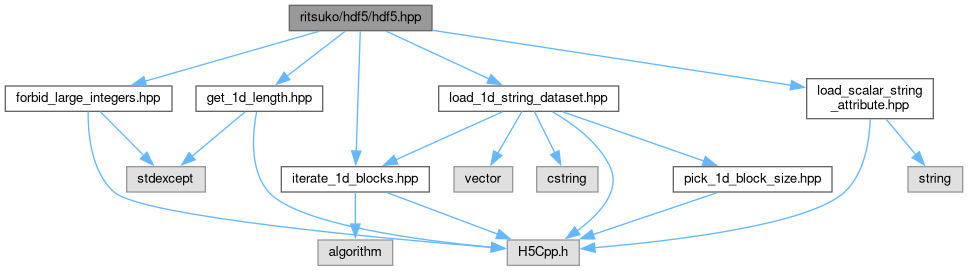
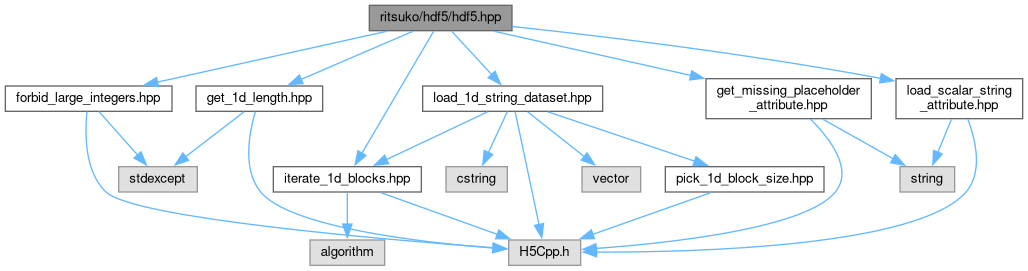
Deploying to gh-pages from @ ArtifactDB/ritsuko@1314973b05574e902abb3741881051f16d68b198 🚀

diff --git a/docs/get__missing__placeholder__attribute_8hpp_source.html b/docs/get__missing__placeholder__attribute_8hpp_source.html
@@ -1,0 +1,124 @@
+<!DOCTYPE html PUBLIC "-//W3C//DTD XHTML 1.0 Transitional//EN" "https://www.w3.org/TR/xhtml1/DTD/xhtml1-transitional.dtd">
+<html xmlns="http://www.w3.org/1999/xhtml" lang="en-US">
+<head>
+<meta http-equiv="Content-Type" content="text/xhtml;charset=UTF-8"/>
+<meta http-equiv="X-UA-Compatible" content="IE=11"/>
+<meta name="generator" content="Doxygen 1.9.5"/>
+<meta name="viewport" content="width=device-width, initial-scale=1"/>
+<title>ritsuko: ritsuko/hdf5/get_missing_placeholder_attribute.hpp Source File</title>
+<link href="tabs.css" rel="stylesheet" type="text/css"/>
+<script type="text/javascript" src="jquery.js"></script>
+<script type="text/javascript" src="dynsections.js"></script>
+<link href="search/search.css" rel="stylesheet" type="text/css"/>
+<script type="text/javascript" src="search/searchdata.js"></script>
+<script type="text/javascript" src="search/search.js"></script>
+<link href="doxygen.css" rel="stylesheet" type="text/css" />
+<link href="doxygen-awesome.css" rel="stylesheet" type="text/css"/>
+</head>
+<body>
+<div id="top"><!-- do not remove this div, it is closed by doxygen! -->
+<div id="titlearea">
+<table cellspacing="0" cellpadding="0">
+ <tbody>
+ <tr id="projectrow">
+  <td id="projectalign">
+   <div id="projectname">ritsuko
+   </div>
+   <div id="projectbrief">Helper utilities for ArtifactDB C++ code</div>
+  </td>
+ </tr>
+ </tbody>
+</table>
+</div>
+<!-- end header part -->
+<!-- Generated by Doxygen 1.9.5 -->
+<script type="text/javascript">
+/* @license magnet:?xt=urn:btih:d3d9a9a6595521f9666a5e94cc830dab83b65699&amp;dn=expat.txt MIT */
+var searchBox = new SearchBox("searchBox", "search/",'.html');
+/* @license-end */
+</script>
+<script type="text/javascript" src="menudata.js"></script>
+<script type="text/javascript" src="menu.js"></script>
+<script type="text/javascript">
+/* @license magnet:?xt=urn:btih:d3d9a9a6595521f9666a5e94cc830dab83b65699&amp;dn=expat.txt MIT */
+$(function() {
+  initMenu('',true,false,'search.php','Search');
+  $(document).ready(function() { init_search(); });
+});
+/* @license-end */
+</script>
+<div id="main-nav"></div>
+<!-- window showing the filter options -->
+<div id="MSearchSelectWindow"
+     onmouseover="return searchBox.OnSearchSelectShow()"
+     onmouseout="return searchBox.OnSearchSelectHide()"
+     onkeydown="return searchBox.OnSearchSelectKey(event)">
+</div>
+
+<!-- iframe showing the search results (closed by default) -->
+<div id="MSearchResultsWindow">
+<div id="MSearchResults">
+<div class="SRPage">
+<div id="SRIndex">
+<div id="SRResults"></div>
+<div class="SRStatus" id="Loading">Loading...</div>
+<div class="SRStatus" id="Searching">Searching...</div>
+<div class="SRStatus" id="NoMatches">No Matches</div>
+</div>
+</div>
+</div>
+</div>
+
+<div id="nav-path" class="navpath">
+  <ul>
+<li class="navelem"><a class="el" href="dir_f15da645971b6d779507fac846aa3ff3.html">ritsuko</a></li><li class="navelem"><a class="el" href="dir_29ed3d7dd90c3bc55abde691efb7e794.html">hdf5</a></li>  </ul>
+</div>
+</div><!-- top -->
+<div class="header">
+  <div class="headertitle"><div class="title">get_missing_placeholder_attribute.hpp</div></div>
+</div><!--header-->
+<div class="contents">
+<a href="get__missing__placeholder__attribute_8hpp.html">Go to the documentation of this file.</a><div class="fragment"><div class="line"><a id="l00001" name="l00001"></a><span class="lineno">    1</span><span class="preprocessor">#ifndef RITSUKO_HDF5_GET_MISSING_PLACEHOLDER_ATTRIBUTE_HPP</span></div>
+<div class="line"><a id="l00002" name="l00002"></a><span class="lineno">    2</span><span class="preprocessor">#define RITSUKO_HDF5_GET_MISSING_PLACEHOLDER_ATTRIBUTE_HPP</span></div>
+<div class="line"><a id="l00003" name="l00003"></a><span class="lineno">    3</span> </div>
+<div class="line"><a id="l00004" name="l00004"></a><span class="lineno">    4</span><span class="preprocessor">#include &quot;H5Cpp.h&quot;</span></div>
+<div class="line"><a id="l00005" name="l00005"></a><span class="lineno">    5</span><span class="preprocessor">#include &lt;string&gt;</span></div>
+<div class="line"><a id="l00006" name="l00006"></a><span class="lineno">    6</span> </div>
+<div class="line"><a id="l00012" name="l00012"></a><span class="lineno">   12</span><span class="keyword">namespace </span><a class="code hl_namespace" href="namespaceritsuko.html">ritsuko</a> {</div>
+<div class="line"><a id="l00013" name="l00013"></a><span class="lineno">   13</span> </div>
+<div class="line"><a id="l00014" name="l00014"></a><span class="lineno">   14</span><span class="keyword">namespace </span>hdf5 {</div>
+<div class="line"><a id="l00015" name="l00015"></a><span class="lineno">   15</span> </div>
+<div class="line"><a id="l00027" name="l00027"></a><span class="lineno">   27</span><span class="keyword">template</span>&lt;<span class="keywordtype">bool</span> type_<span class="keyword">class</span>_only_ = false&gt;</div>
+<div class="line"><a id="l00028" name="l00028"></a><span class="lineno"><a class="line" href="namespaceritsuko_1_1hdf5.html#a0cb6491677dc79e02685e36835802476">   28</a></span>H5::Attribute <a class="code hl_function" href="namespaceritsuko_1_1hdf5.html#a0cb6491677dc79e02685e36835802476">get_missing_placeholder_attribute</a>(<span class="keyword">const</span> H5::DataSet&amp; handle, <span class="keyword">const</span> <span class="keywordtype">char</span>* attr_name, <span class="keyword">const</span> <span class="keywordtype">char</span>* data_name) {</div>
+<div class="line"><a id="l00029" name="l00029"></a><span class="lineno">   29</span>    <span class="keyword">auto</span> attr = handle.openAttribute(attr_name);</div>
+<div class="line"><a id="l00030" name="l00030"></a><span class="lineno">   30</span>    <span class="keywordflow">if</span> (attr.getSpace().getSimpleExtentNdims() != 0) {</div>
+<div class="line"><a id="l00031" name="l00031"></a><span class="lineno">   31</span>        <span class="keywordflow">throw</span> std::runtime_error(<span class="stringliteral">&quot;expected &#39;&quot;</span> + std::string(attr_name) + <span class="stringliteral">&quot;&#39; attribute on dataset &#39;&quot;</span> + std::string(data_name) + <span class="stringliteral">&quot;&#39; to be a scalar&quot;</span>);</div>
+<div class="line"><a id="l00032" name="l00032"></a><span class="lineno">   32</span>    }</div>
+<div class="line"><a id="l00033" name="l00033"></a><span class="lineno">   33</span> </div>
+<div class="line"><a id="l00034" name="l00034"></a><span class="lineno">   34</span>    <span class="keywordflow">if</span> <span class="keyword">constexpr</span>(type_class_only_) {</div>
+<div class="line"><a id="l00035" name="l00035"></a><span class="lineno">   35</span>        <span class="keywordflow">if</span> (attr.getTypeClass() != handle.getTypeClass()) {</div>
+<div class="line"><a id="l00036" name="l00036"></a><span class="lineno">   36</span>            <span class="keywordflow">throw</span> std::runtime_error(<span class="stringliteral">&quot;expected &#39;&quot;</span> + std::string(attr_name) + <span class="stringliteral">&quot;&#39; attribute to have the same type class as its dataset &#39;&quot;</span> + std::string(data_name) + <span class="stringliteral">&quot;&#39;&quot;</span>);</div>
+<div class="line"><a id="l00037" name="l00037"></a><span class="lineno">   37</span>        }</div>
+<div class="line"><a id="l00038" name="l00038"></a><span class="lineno">   38</span>    } <span class="keywordflow">else</span> {</div>
+<div class="line"><a id="l00039" name="l00039"></a><span class="lineno">   39</span>        <span class="keywordflow">if</span> (attr.getDataType() != handle.getDataType()) {</div>
+<div class="line"><a id="l00040" name="l00040"></a><span class="lineno">   40</span>            <span class="keywordflow">throw</span> std::runtime_error(<span class="stringliteral">&quot;expected &#39;&quot;</span> + std::string(attr_name) + <span class="stringliteral">&quot;&#39; attribute to have the same type as its dataset &#39;&quot;</span> + std::string(data_name) + <span class="stringliteral">&quot;&#39;&quot;</span>);</div>
+<div class="line"><a id="l00041" name="l00041"></a><span class="lineno">   41</span>        }</div>
+<div class="line"><a id="l00042" name="l00042"></a><span class="lineno">   42</span>    }</div>
+<div class="line"><a id="l00043" name="l00043"></a><span class="lineno">   43</span> </div>
+<div class="line"><a id="l00044" name="l00044"></a><span class="lineno">   44</span>    <span class="keywordflow">return</span> attr;</div>
+<div class="line"><a id="l00045" name="l00045"></a><span class="lineno">   45</span>}</div>
+<div class="line"><a id="l00046" name="l00046"></a><span class="lineno">   46</span> </div>
+<div class="line"><a id="l00047" name="l00047"></a><span class="lineno">   47</span>}</div>
+<div class="line"><a id="l00048" name="l00048"></a><span class="lineno">   48</span> </div>
+<div class="line"><a id="l00049" name="l00049"></a><span class="lineno">   49</span>}</div>
+<div class="line"><a id="l00050" name="l00050"></a><span class="lineno">   50</span> </div>
+<div class="line"><a id="l00051" name="l00051"></a><span class="lineno">   51</span><span class="preprocessor">#endif</span></div>
+<div class="ttc" id="anamespaceritsuko_1_1hdf5_html_a0cb6491677dc79e02685e36835802476"><div class="ttname"><a href="namespaceritsuko_1_1hdf5.html#a0cb6491677dc79e02685e36835802476">ritsuko::hdf5::get_missing_placeholder_attribute</a></div><div class="ttdeci">H5::Attribute get_missing_placeholder_attribute(const H5::DataSet &amp;handle, const char *attr_name, const char *data_name)</div><div class="ttdef"><b>Definition:</b> get_missing_placeholder_attribute.hpp:28</div></div>
+<div class="ttc" id="anamespaceritsuko_html"><div class="ttname"><a href="namespaceritsuko.html">ritsuko</a></div><div class="ttdoc">Assorted helper functions for parsing and validation.</div><div class="ttdef"><b>Definition:</b> forbid_large_integers.hpp:12</div></div>
+</div><!-- fragment --></div><!-- contents -->
+<!-- start footer part -->
+<hr class="footer"/><address class="footer"><small>
+Generated by&#160;<a href="https://www.doxygen.org/index.html"><img class="footer" src="doxygen.svg" width="104" height="31" alt="doxygen"/></a> 1.9.5
+</small></address>
+</body>
+</html>

diff --git a/docs/get__missing__placeholder__attribute_8hpp.html b/docs/get__missing__placeholder__attribute_8hpp.html
@@ -5,7 +5,7 @@
 <meta http-equiv="X-UA-Compatible" content="IE=11"/>
 <meta name="generator" content="Doxygen 1.9.5"/>
 <meta name="viewport" content="width=device-width, initial-scale=1"/>
-<title>ritsuko: ritsuko/hdf5/hdf5.hpp File Reference</title>
+<title>ritsuko: ritsuko/hdf5/get_missing_placeholder_attribute.hpp File Reference</title>
 <link href="tabs.css" rel="stylesheet" type="text/css"/>
 <script type="text/javascript" src="jquery.js"></script>
 <script type="text/javascript" src="dynsections.js"></script>
@@ -76,42 +76,37 @@ $(function() {
 </div><!-- top -->
 <div class="header">
   <div class="summary">
-<a href="#namespaces">Namespaces</a>  </div>
-  <div class="headertitle"><div class="title">hdf5.hpp File Reference</div></div>
+<a href="#namespaces">Namespaces</a> &#124;
+<a href="#func-members">Functions</a>  </div>
+  <div class="headertitle"><div class="title">get_missing_placeholder_attribute.hpp File Reference</div></div>
 </div><!--header-->
 <div class="contents">
 
-<p>Umbrella header for <b>ritsuko</b>'s HDF5 utilities.  
+<p>Get the missing placeholder attribute.  
 <a href="#details">More...</a></p>
-<div class="textblock"><code>#include &quot;<a class="el" href="forbid__large__integers_8hpp_source.html">forbid_large_integers.hpp</a>&quot;</code><br />
-<code>#include &quot;<a class="el" href="get__1d__length_8hpp_source.html">get_1d_length.hpp</a>&quot;</code><br />
-<code>#include &quot;<a class="el" href="iterate__1d__blocks_8hpp_source.html">iterate_1d_blocks.hpp</a>&quot;</code><br />
-<code>#include &quot;<a class="el" href="load__1d__string__dataset_8hpp_source.html">load_1d_string_dataset.hpp</a>&quot;</code><br />
-<code>#include &quot;<a class="el" href="load__scalar__string__attribute_8hpp_source.html">load_scalar_string_attribute.hpp</a>&quot;</code><br />
-<code>#include &quot;<a class="el" href="get__missing__placeholder__attribute_8hpp_source.html">get_missing_placeholder_attribute.hpp</a>&quot;</code><br />
+<div class="textblock"><code>#include &quot;H5Cpp.h&quot;</code><br />
+<code>#include &lt;string&gt;</code><br />
 </div><div class="textblock"><div class="dynheader">
-Include dependency graph for hdf5.hpp:</div>
+Include dependency graph for get_missing_placeholder_attribute.hpp:</div>
 <div class="dyncontent">
-<div class="center"><img src="hdf5_8hpp__incl.png" border="0" usemap="#aritsuko_2hdf5_2hdf5_8hpp" alt=""/></div>
-<map name="aritsuko_2hdf5_2hdf5_8hpp" id="aritsuko_2hdf5_2hdf5_8hpp">
-<area shape="rect" title="Umbrella header for ritsuko&#39;s HDF5 utilities." alt="" coords="369,5,512,31"/>
-<area shape="rect" href="forbid__large__integers_8hpp.html" title="Forbid large integers in HDF5 datasets." alt="" coords="5,86,172,111"/>
-<area shape="rect" href="get__1d__length_8hpp.html" title="Get the length of a 1&#45;dimensional HDF5 dataset." alt="" coords="196,86,323,111"/>
-<area shape="rect" href="iterate__1d__blocks_8hpp.html" title="Blockwise iteration through a 1&#45;dimensional HDF5 dataset." alt="" coords="273,167,421,192"/>
-<area shape="rect" href="load__1d__string__dataset_8hpp.html" title="Load and iterate over a 1&#45;dimensional HDF5 string dataset." alt="" coords="423,86,603,111"/>
-<area shape="rect" href="load__scalar__string__attribute_8hpp.html" title="Load a scalar string HDF5 attribute." alt="" coords="896,79,1023,119"/>
-<area shape="rect" href="get__missing__placeholder__attribute_8hpp.html" title="Get the missing placeholder attribute." alt="" coords="706,79,871,119"/>
-<area shape="rect" title=" " alt="" coords="509,240,581,265"/>
-<area shape="rect" title=" " alt="" coords="119,167,197,192"/>
-<area shape="rect" title=" " alt="" coords="310,240,385,265"/>
-<area shape="rect" title=" " alt="" coords="582,167,641,192"/>
-<area shape="rect" title=" " alt="" coords="446,167,507,192"/>
-<area shape="rect" href="pick__1d__block__size_8hpp.html" title="Pick a block size for a 1&#45;dimensional HDF5 dataset." alt="" coords="665,167,824,192"/>
-<area shape="rect" title=" " alt="" coords="900,167,955,192"/>
+<div class="center"><img src="get__missing__placeholder__attribute_8hpp__incl.png" border="0" usemap="#aritsuko_2hdf5_2get__missing__placeholder__attribute_8hpp" alt=""/></div>
+<map name="aritsuko_2hdf5_2get__missing__placeholder__attribute_8hpp" id="aritsuko_2hdf5_2get__missing__placeholder__attribute_8hpp">
+<area shape="rect" title="Get the missing placeholder attribute." alt="" coords="5,5,179,45"/>
+<area shape="rect" title=" " alt="" coords="12,93,84,119"/>
+<area shape="rect" title=" " alt="" coords="109,93,163,119"/>
+</map>
+</div>
+</div><div class="textblock"><div class="dynheader">
+This graph shows which files directly or indirectly include this file:</div>
+<div class="dyncontent">
+<div class="center"><img src="get__missing__placeholder__attribute_8hpp__dep__incl.png" border="0" usemap="#aritsuko_2hdf5_2get__missing__placeholder__attribute_8hppdep" alt=""/></div>
+<map name="aritsuko_2hdf5_2get__missing__placeholder__attribute_8hppdep" id="aritsuko_2hdf5_2get__missing__placeholder__attribute_8hppdep">
+<area shape="rect" title="Get the missing placeholder attribute." alt="" coords="5,5,179,45"/>
+<area shape="rect" href="hdf5_8hpp.html" title="Umbrella header for ritsuko&#39;s HDF5 utilities." alt="" coords="21,93,163,119"/>
 </map>
 </div>
 </div>
-<p><a href="hdf5_8hpp_source.html">Go to the source code of this file.</a></p>
+<p><a href="get__missing__placeholder__attribute_8hpp_source.html">Go to the source code of this file.</a></p>
 <table class="memberdecls">
 <tr class="heading"><td colspan="2"><h2 class="groupheader"><a id="namespaces" name="namespaces"></a>
 Namespaces</h2></td></tr>
@@ -121,9 +116,15 @@ Namespaces</h2></td></tr>
 <tr class="memitem:namespaceritsuko_1_1hdf5"><td class="memItemLeft" align="right" valign="top">namespace &#160;</td><td class="memItemRight" valign="bottom"><a class="el" href="namespaceritsuko_1_1hdf5.html">ritsuko::hdf5</a></td></tr>
 <tr class="memdesc:namespaceritsuko_1_1hdf5"><td class="mdescLeft">&#160;</td><td class="mdescRight">Assorted helper functions for HDF5 parsing. <br /></td></tr>
 <tr class="separator:"><td class="memSeparator" colspan="2">&#160;</td></tr>
+</table><table class="memberdecls">
+<tr class="heading"><td colspan="2"><h2 class="groupheader"><a id="func-members" name="func-members"></a>
+Functions</h2></td></tr>
+<tr class="memitem:a0cb6491677dc79e02685e36835802476"><td class="memTemplParams" colspan="2">template&lt;bool type_class_only_ = false&gt; </td></tr>
+<tr class="memitem:a0cb6491677dc79e02685e36835802476"><td class="memTemplItemLeft" align="right" valign="top">H5::Attribute&#160;</td><td class="memTemplItemRight" valign="bottom"><a class="el" href="namespaceritsuko_1_1hdf5.html#a0cb6491677dc79e02685e36835802476">ritsuko::hdf5::get_missing_placeholder_attribute</a> (const H5::DataSet &amp;handle, const char *attr_name, const char *data_name)</td></tr>
+<tr class="separator:a0cb6491677dc79e02685e36835802476"><td class="memSeparator" colspan="2">&#160;</td></tr>
 </table>
 <a name="details" id="details"></a><h2 class="groupheader">Detailed Description</h2>
-<div class="textblock"><p >Umbrella header for <b>ritsuko</b>'s HDF5 utilities. </p>
+<div class="textblock"><p >Get the missing placeholder attribute. </p>
 </div></div><!-- contents -->
 <!-- start footer part -->
 <hr class="footer"/><address class="footer"><small>

diff --git a/docs/files.html b/docs/files.html
@@ -80,14 +80,15 @@ $(function() {
 <tr id="row_0_0_" class="odd"><td class="entry"><span style="width:16px;display:inline-block;">&#160;</span><span id="arr_0_0_" class="arrow" onclick="toggleFolder('0_0_')">&#9660;</span><span id="img_0_0_" class="iconfopen" onclick="toggleFolder('0_0_')">&#160;</span><a class="el" href="dir_29ed3d7dd90c3bc55abde691efb7e794.html" target="_self">hdf5</a></td><td class="desc"></td></tr>
 <tr id="row_0_0_0_" class="even"><td class="entry"><span style="width:48px;display:inline-block;">&#160;</span><a href="forbid__large__integers_8hpp_source.html"><span class="icondoc"></span></a><a class="el" href="forbid__large__integers_8hpp.html" target="_self">forbid_large_integers.hpp</a></td><td class="desc">Forbid large integers in HDF5 datasets </td></tr>
 <tr id="row_0_0_1_" class="odd"><td class="entry"><span style="width:48px;display:inline-block;">&#160;</span><a href="get__1d__length_8hpp_source.html"><span class="icondoc"></span></a><a class="el" href="get__1d__length_8hpp.html" target="_self">get_1d_length.hpp</a></td><td class="desc">Get the length of a 1-dimensional HDF5 dataset </td></tr>
-<tr id="row_0_0_2_" class="even"><td class="entry"><span style="width:48px;display:inline-block;">&#160;</span><a href="hdf5_8hpp_source.html"><span class="icondoc"></span></a><a class="el" href="hdf5_8hpp.html" target="_self">hdf5.hpp</a></td><td class="desc">Umbrella header for <b>ritsuko</b>'s HDF5 utilities </td></tr>
-<tr id="row_0_0_3_" class="odd"><td class="entry"><span style="width:48px;display:inline-block;">&#160;</span><a href="iterate__1d__blocks_8hpp_source.html"><span class="icondoc"></span></a><a class="el" href="iterate__1d__blocks_8hpp.html" target="_self">iterate_1d_blocks.hpp</a></td><td class="desc">Blockwise iteration through a 1-dimensional HDF5 dataset </td></tr>
-<tr id="row_0_0_4_" class="even"><td class="entry"><span style="width:48px;display:inline-block;">&#160;</span><a href="load__1d__string__dataset_8hpp_source.html"><span class="icondoc"></span></a><a class="el" href="load__1d__string__dataset_8hpp.html" target="_self">load_1d_string_dataset.hpp</a></td><td class="desc">Load and iterate over a 1-dimensional HDF5 string dataset </td></tr>
-<tr id="row_0_0_5_" class="odd"><td class="entry"><span style="width:48px;display:inline-block;">&#160;</span><a href="load__scalar__string__attribute_8hpp_source.html"><span class="icondoc"></span></a><a class="el" href="load__scalar__string__attribute_8hpp.html" target="_self">load_scalar_string_attribute.hpp</a></td><td class="desc">Load a scalar string HDF5 attribute </td></tr>
-<tr id="row_0_0_6_" class="even"><td class="entry"><span style="width:48px;display:inline-block;">&#160;</span><a href="pick__1d__block__size_8hpp_source.html"><span class="icondoc"></span></a><a class="el" href="pick__1d__block__size_8hpp.html" target="_self">pick_1d_block_size.hpp</a></td><td class="desc">Pick a block size for a 1-dimensional HDF5 dataset </td></tr>
-<tr id="row_0_1_" class="odd"><td class="entry"><span style="width:32px;display:inline-block;">&#160;</span><a href="is__date__time_8hpp_source.html"><span class="icondoc"></span></a><a class="el" href="is__date__time_8hpp.html" target="_self">is_date_time.hpp</a></td><td class="desc">Utilities to check date and time formats </td></tr>
-<tr id="row_0_2_" class="even"><td class="entry"><span style="width:32px;display:inline-block;">&#160;</span><a href="r__missing__value_8hpp_source.html"><span class="icondoc"></span></a><a class="el" href="r__missing__value_8hpp.html" target="_self">r_missing_value.hpp</a></td><td class="desc">Obtain R's missing value </td></tr>
-<tr id="row_0_3_" class="odd"><td class="entry"><span style="width:32px;display:inline-block;">&#160;</span><a href="ritsuko_8hpp_source.html"><span class="icondoc"></span></a><a class="el" href="ritsuko_8hpp.html" target="_self">ritsuko.hpp</a></td><td class="desc">Umbrella header for <b>ritsuko</b> </td></tr>
+<tr id="row_0_0_2_" class="even"><td class="entry"><span style="width:48px;display:inline-block;">&#160;</span><a href="get__missing__placeholder__attribute_8hpp_source.html"><span class="icondoc"></span></a><a class="el" href="get__missing__placeholder__attribute_8hpp.html" target="_self">get_missing_placeholder_attribute.hpp</a></td><td class="desc">Get the missing placeholder attribute </td></tr>
+<tr id="row_0_0_3_" class="odd"><td class="entry"><span style="width:48px;display:inline-block;">&#160;</span><a href="hdf5_8hpp_source.html"><span class="icondoc"></span></a><a class="el" href="hdf5_8hpp.html" target="_self">hdf5.hpp</a></td><td class="desc">Umbrella header for <b>ritsuko</b>'s HDF5 utilities </td></tr>
+<tr id="row_0_0_4_" class="even"><td class="entry"><span style="width:48px;display:inline-block;">&#160;</span><a href="iterate__1d__blocks_8hpp_source.html"><span class="icondoc"></span></a><a class="el" href="iterate__1d__blocks_8hpp.html" target="_self">iterate_1d_blocks.hpp</a></td><td class="desc">Blockwise iteration through a 1-dimensional HDF5 dataset </td></tr>
+<tr id="row_0_0_5_" class="odd"><td class="entry"><span style="width:48px;display:inline-block;">&#160;</span><a href="load__1d__string__dataset_8hpp_source.html"><span class="icondoc"></span></a><a class="el" href="load__1d__string__dataset_8hpp.html" target="_self">load_1d_string_dataset.hpp</a></td><td class="desc">Load and iterate over a 1-dimensional HDF5 string dataset </td></tr>
+<tr id="row_0_0_6_" class="even"><td class="entry"><span style="width:48px;display:inline-block;">&#160;</span><a href="load__scalar__string__attribute_8hpp_source.html"><span class="icondoc"></span></a><a class="el" href="load__scalar__string__attribute_8hpp.html" target="_self">load_scalar_string_attribute.hpp</a></td><td class="desc">Load a scalar string HDF5 attribute </td></tr>
+<tr id="row_0_0_7_" class="odd"><td class="entry"><span style="width:48px;display:inline-block;">&#160;</span><a href="pick__1d__block__size_8hpp_source.html"><span class="icondoc"></span></a><a class="el" href="pick__1d__block__size_8hpp.html" target="_self">pick_1d_block_size.hpp</a></td><td class="desc">Pick a block size for a 1-dimensional HDF5 dataset </td></tr>
+<tr id="row_0_1_" class="even"><td class="entry"><span style="width:32px;display:inline-block;">&#160;</span><a href="is__date__time_8hpp_source.html"><span class="icondoc"></span></a><a class="el" href="is__date__time_8hpp.html" target="_self">is_date_time.hpp</a></td><td class="desc">Utilities to check date and time formats </td></tr>
+<tr id="row_0_2_" class="odd"><td class="entry"><span style="width:32px;display:inline-block;">&#160;</span><a href="r__missing__value_8hpp_source.html"><span class="icondoc"></span></a><a class="el" href="r__missing__value_8hpp.html" target="_self">r_missing_value.hpp</a></td><td class="desc">Obtain R's missing value </td></tr>
+<tr id="row_0_3_" class="even"><td class="entry"><span style="width:32px;display:inline-block;">&#160;</span><a href="ritsuko_8hpp_source.html"><span class="icondoc"></span></a><a class="el" href="ritsuko_8hpp.html" target="_self">ritsuko.hpp</a></td><td class="desc">Umbrella header for <b>ritsuko</b> </td></tr>
 </table>
 </div><!-- directory -->
 </div><!-- contents -->

diff --git a/docs/namespaceritsuko_1_1hdf5.html b/docs/namespaceritsuko_1_1hdf5.html
@@ -90,6 +90,9 @@ Functions</h2></td></tr>
 <tr class="separator:a47a5cb41e7d2f5a8a0195a8b2d391bba"><td class="memSeparator" colspan="2">&#160;</td></tr>
 <tr class="memitem:a72ac8356c88dcd7ea775c373468f07c9"><td class="memItemLeft" align="right" valign="top">hsize_t&#160;</td><td class="memItemRight" valign="bottom"><a class="el" href="namespaceritsuko_1_1hdf5.html#a72ac8356c88dcd7ea775c373468f07c9">get_1d_length</a> (const H5::DataSpace &amp;space, bool allow_scalar, const char *name)</td></tr>
 <tr class="separator:a72ac8356c88dcd7ea775c373468f07c9"><td class="memSeparator" colspan="2">&#160;</td></tr>
+<tr class="memitem:a0cb6491677dc79e02685e36835802476"><td class="memTemplParams" colspan="2">template&lt;bool type_class_only_ = false&gt; </td></tr>
+<tr class="memitem:a0cb6491677dc79e02685e36835802476"><td class="memTemplItemLeft" align="right" valign="top">H5::Attribute&#160;</td><td class="memTemplItemRight" valign="bottom"><a class="el" href="namespaceritsuko_1_1hdf5.html#a0cb6491677dc79e02685e36835802476">get_missing_placeholder_attribute</a> (const H5::DataSet &amp;handle, const char *attr_name, const char *data_name)</td></tr>
+<tr class="separator:a0cb6491677dc79e02685e36835802476"><td class="memSeparator" colspan="2">&#160;</td></tr>
 <tr class="memitem:a0cdd51a078df2aecc261499ae5506595"><td class="memTemplParams" colspan="2">template&lt;class Function_ &gt; </td></tr>
 <tr class="memitem:a0cdd51a078df2aecc261499ae5506595"><td class="memTemplItemLeft" align="right" valign="top">void&#160;</td><td class="memTemplItemRight" valign="bottom"><a class="el" href="namespaceritsuko_1_1hdf5.html#a0cdd51a078df2aecc261499ae5506595">iterate_1d_blocks</a> (hsize_t block_size, hsize_t full_length, Function_ fun)</td></tr>
 <tr class="separator:a0cdd51a078df2aecc261499ae5506595"><td class="memSeparator" colspan="2">&#160;</td></tr>
@@ -207,6 +210,57 @@ Functions</h2></td></tr>
   </dd>
 </dl>
 <dl class="section return"><dt>Returns</dt><dd>Length of the dataset, i.e., the extent of its single dimension. If <code>allow_scalar = true</code>, zero is returned in the presence of a scalar dataset, otherwise an error is raised. </dd></dl>
+
+</div>
+</div>
+<a id="a0cb6491677dc79e02685e36835802476" name="a0cb6491677dc79e02685e36835802476"></a>
+<h2 class="memtitle"><span class="permalink"><a href="#a0cb6491677dc79e02685e36835802476">&#9670;&#160;</a></span>get_missing_placeholder_attribute()</h2>
+
+<div class="memitem">
+<div class="memproto">
+<div class="memtemplate">
+template&lt;bool type_class_only_ = false&gt; </div>
+      <table class="memname">
+        <tr>
+          <td class="memname">H5::Attribute ritsuko::hdf5::get_missing_placeholder_attribute </td>
+          <td>(</td>
+          <td class="paramtype">const H5::DataSet &amp;&#160;</td>
+          <td class="paramname"><em>handle</em>, </td>
+        </tr>
+        <tr>
+          <td class="paramkey"></td>
+          <td></td>
+          <td class="paramtype">const char *&#160;</td>
+          <td class="paramname"><em>attr_name</em>, </td>
+        </tr>
+        <tr>
+          <td class="paramkey"></td>
+          <td></td>
+          <td class="paramtype">const char *&#160;</td>
+          <td class="paramname"><em>data_name</em>&#160;</td>
+        </tr>
+        <tr>
+          <td></td>
+          <td>)</td>
+          <td></td><td></td>
+        </tr>
+      </table>
+</div><div class="memdoc">
+<dl class="tparams"><dt>Template Parameters</dt><dd>
+  <table class="tparams">
+    <tr><td class="paramname">type_class_only_</td><td>Whether to only require identical type classes for the placeholder. By default, we require identity in the types themselves.</td></tr>
+  </table>
+  </dd>
+</dl>
+<dl class="params"><dt>Parameters</dt><dd>
+  <table class="params">
+    <tr><td class="paramname">handle</td><td>Dataset handle. </td></tr>
+    <tr><td class="paramname">attr_name</td><td>Name of the attribute containing the missing value placeholder. </td></tr>
+    <tr><td class="paramname">data_name</td><td>Name of the dataset, for use in error messages.</td></tr>
+  </table>
+  </dd>
+</dl>
+<dl class="section return"><dt>Returns</dt><dd>Handle to the attribute. An error is raised if the attribute is not a scalar or has a different type (or type class, if <code>type_class_only_ = true</code>) to the dataset. </dd></dl>
 
 </div>
 </div>

diff --git a/docs/hdf5_8hpp_source.html b/docs/hdf5_8hpp_source.html
@@ -86,16 +86,18 @@ $(function() {
 <div class="line"><a id="l00006" name="l00006"></a><span class="lineno">    6</span><span class="preprocessor">#include &quot;<a class="code" href="iterate__1d__blocks_8hpp.html">iterate_1d_blocks.hpp</a>&quot;</span></div>
 <div class="line"><a id="l00007" name="l00007"></a><span class="lineno">    7</span><span class="preprocessor">#include &quot;<a class="code" href="load__1d__string__dataset_8hpp.html">load_1d_string_dataset.hpp</a>&quot;</span></div>
 <div class="line"><a id="l00008" name="l00008"></a><span class="lineno">    8</span><span class="preprocessor">#include &quot;<a class="code" href="load__scalar__string__attribute_8hpp.html">load_scalar_string_attribute.hpp</a>&quot;</span></div>
-<div class="line"><a id="l00009" name="l00009"></a><span class="lineno">    9</span> </div>
-<div class="line"><a id="l00015" name="l00015"></a><span class="lineno">   15</span><span class="keyword">namespace </span><a class="code hl_namespace" href="namespaceritsuko.html">ritsuko</a> {</div>
-<div class="line"><a id="l00016" name="l00016"></a><span class="lineno">   16</span> </div>
-<div class="line"><a id="l00021" name="l00021"></a><span class="lineno">   21</span><span class="keyword">namespace </span>hdf5 {}</div>
-<div class="line"><a id="l00022" name="l00022"></a><span class="lineno">   22</span> </div>
-<div class="line"><a id="l00023" name="l00023"></a><span class="lineno">   23</span>}</div>
-<div class="line"><a id="l00024" name="l00024"></a><span class="lineno">   24</span> </div>
-<div class="line"><a id="l00025" name="l00025"></a><span class="lineno">   25</span><span class="preprocessor">#endif</span></div>
+<div class="line"><a id="l00009" name="l00009"></a><span class="lineno">    9</span><span class="preprocessor">#include &quot;<a class="code" href="get__missing__placeholder__attribute_8hpp.html">get_missing_placeholder_attribute.hpp</a>&quot;</span></div>
+<div class="line"><a id="l00010" name="l00010"></a><span class="lineno">   10</span> </div>
+<div class="line"><a id="l00016" name="l00016"></a><span class="lineno">   16</span><span class="keyword">namespace </span><a class="code hl_namespace" href="namespaceritsuko.html">ritsuko</a> {</div>
+<div class="line"><a id="l00017" name="l00017"></a><span class="lineno">   17</span> </div>
+<div class="line"><a id="l00022" name="l00022"></a><span class="lineno">   22</span><span class="keyword">namespace </span>hdf5 {}</div>
+<div class="line"><a id="l00023" name="l00023"></a><span class="lineno">   23</span> </div>
+<div class="line"><a id="l00024" name="l00024"></a><span class="lineno">   24</span>}</div>
+<div class="line"><a id="l00025" name="l00025"></a><span class="lineno">   25</span> </div>
+<div class="line"><a id="l00026" name="l00026"></a><span class="lineno">   26</span><span class="preprocessor">#endif</span></div>
 <div class="ttc" id="aforbid__large__integers_8hpp_html"><div class="ttname"><a href="forbid__large__integers_8hpp.html">forbid_large_integers.hpp</a></div><div class="ttdoc">Forbid large integers in HDF5 datasets.</div></div>
 <div class="ttc" id="aget__1d__length_8hpp_html"><div class="ttname"><a href="get__1d__length_8hpp.html">get_1d_length.hpp</a></div><div class="ttdoc">Get the length of a 1-dimensional HDF5 dataset.</div></div>
+<div class="ttc" id="aget__missing__placeholder__attribute_8hpp_html"><div class="ttname"><a href="get__missing__placeholder__attribute_8hpp.html">get_missing_placeholder_attribute.hpp</a></div><div class="ttdoc">Get the missing placeholder attribute.</div></div>
 <div class="ttc" id="aiterate__1d__blocks_8hpp_html"><div class="ttname"><a href="iterate__1d__blocks_8hpp.html">iterate_1d_blocks.hpp</a></div><div class="ttdoc">Blockwise iteration through a 1-dimensional HDF5 dataset.</div></div>
 <div class="ttc" id="aload__1d__string__dataset_8hpp_html"><div class="ttname"><a href="load__1d__string__dataset_8hpp.html">load_1d_string_dataset.hpp</a></div><div class="ttdoc">Load and iterate over a 1-dimensional HDF5 string dataset.</div></div>
 <div class="ttc" id="aload__scalar__string__attribute_8hpp_html"><div class="ttname"><a href="load__scalar__string__attribute_8hpp.html">load_scalar_string_attribute.hpp</a></div><div class="ttdoc">Load a scalar string HDF5 attribute.</div></div>

diff --git a/docs/dir_29ed3d7dd90c3bc55abde691efb7e794.html b/docs/dir_29ed3d7dd90c3bc55abde691efb7e794.html
@@ -96,6 +96,9 @@ Files</h2></td></tr>
 <tr class="memitem:"><td class="memItemLeft" align="right" valign="top">file &#160;</td><td class="memItemRight" valign="bottom"><a class="el" href="get__1d__length_8hpp.html">get_1d_length.hpp</a> <a href="get__1d__length_8hpp_source.html">[code]</a></td></tr>
 <tr class="memdesc:get__1d__length_8hpp"><td class="mdescLeft">&#160;</td><td class="mdescRight">Get the length of a 1-dimensional HDF5 dataset. <br /></td></tr>
 <tr class="separator:"><td class="memSeparator" colspan="2">&#160;</td></tr>
+<tr class="memitem:"><td class="memItemLeft" align="right" valign="top">file &#160;</td><td class="memItemRight" valign="bottom"><a class="el" href="get__missing__placeholder__attribute_8hpp.html">get_missing_placeholder_attribute.hpp</a> <a href="get__missing__placeholder__attribute_8hpp_source.html">[code]</a></td></tr>
+<tr class="memdesc:get__missing__placeholder__attribute_8hpp"><td class="mdescLeft">&#160;</td><td class="mdescRight">Get the missing placeholder attribute. <br /></td></tr>
+<tr class="separator:"><td class="memSeparator" colspan="2">&#160;</td></tr>
 <tr class="memitem:"><td class="memItemLeft" align="right" valign="top">file &#160;</td><td class="memItemRight" valign="bottom"><a class="el" href="hdf5_8hpp.html">hdf5.hpp</a> <a href="hdf5_8hpp_source.html">[code]</a></td></tr>
 <tr class="memdesc:hdf5_8hpp"><td class="mdescLeft">&#160;</td><td class="mdescRight">Umbrella header for <b>ritsuko</b>'s HDF5 utilities. <br /></td></tr>
 <tr class="separator:"><td class="memSeparator" colspan="2">&#160;</td></tr>

diff --git a/docs/namespacemembers.html b/docs/namespacemembers.html
@@ -75,6 +75,7 @@ $(function() {
 <li>are_floats_identical()&#160;:&#160;<a class="el" href="namespaceritsuko.html#a74c2618a51291704bc7024b1dfc178d8">ritsuko</a></li>
 <li>forbid_large_integers()&#160;:&#160;<a class="el" href="namespaceritsuko_1_1hdf5.html#a47a5cb41e7d2f5a8a0195a8b2d391bba">ritsuko::hdf5</a></li>
 <li>get_1d_length()&#160;:&#160;<a class="el" href="namespaceritsuko_1_1hdf5.html#a72ac8356c88dcd7ea775c373468f07c9">ritsuko::hdf5</a></li>
+<li>get_missing_placeholder_attribute()&#160;:&#160;<a class="el" href="namespaceritsuko_1_1hdf5.html#a0cb6491677dc79e02685e36835802476">ritsuko::hdf5</a></li>
 <li>is_date()&#160;:&#160;<a class="el" href="namespaceritsuko.html#af53ad376d532eaac211b7cd93f3dda4c">ritsuko</a></li>
 <li>is_date_prefix()&#160;:&#160;<a class="el" href="namespaceritsuko.html#a0dbbf9102b54e6f3f2f11bd0bdb721d8">ritsuko</a></li>
 <li>is_rfc3339()&#160;:&#160;<a class="el" href="namespaceritsuko.html#abf542db46552ae71530ecfccd1f66505">ritsuko</a></li>

diff --git a/docs/namespacemembers_func.html b/docs/namespacemembers_func.html
@@ -75,6 +75,7 @@ $(function() {
 <li>are_floats_identical()&#160;:&#160;<a class="el" href="namespaceritsuko.html#a74c2618a51291704bc7024b1dfc178d8">ritsuko</a></li>
 <li>forbid_large_integers()&#160;:&#160;<a class="el" href="namespaceritsuko_1_1hdf5.html#a47a5cb41e7d2f5a8a0195a8b2d391bba">ritsuko::hdf5</a></li>
 <li>get_1d_length()&#160;:&#160;<a class="el" href="namespaceritsuko_1_1hdf5.html#a72ac8356c88dcd7ea775c373468f07c9">ritsuko::hdf5</a></li>
+<li>get_missing_placeholder_attribute()&#160;:&#160;<a class="el" href="namespaceritsuko_1_1hdf5.html#a0cb6491677dc79e02685e36835802476">ritsuko::hdf5</a></li>
 <li>is_date()&#160;:&#160;<a class="el" href="namespaceritsuko.html#af53ad376d532eaac211b7cd93f3dda4c">ritsuko</a></li>
 <li>is_date_prefix()&#160;:&#160;<a class="el" href="namespaceritsuko.html#a0dbbf9102b54e6f3f2f11bd0bdb721d8">ritsuko</a></li>
 <li>is_rfc3339()&#160;:&#160;<a class="el" href="namespaceritsuko.html#abf542db46552ae71530ecfccd1f66505">ritsuko</a></li>

diff --git a/docs/search/all_3.js b/docs/search/all_3.js
@@ -1,5 +1,7 @@
 var searchData=
 [
   ['get_5f1d_5flength_0',['get_1d_length',['../namespaceritsuko_1_1hdf5.html#a72ac8356c88dcd7ea775c373468f07c9',1,'ritsuko::hdf5']]],
-  ['get_5f1d_5flength_2ehpp_1',['get_1d_length.hpp',['../get__1d__length_8hpp.html',1,'']]]
+  ['get_5f1d_5flength_2ehpp_1',['get_1d_length.hpp',['../get__1d__length_8hpp.html',1,'']]],
+  ['get_5fmissing_5fplaceholder_5fattribute_2',['get_missing_placeholder_attribute',['../namespaceritsuko_1_1hdf5.html#a0cb6491677dc79e02685e36835802476',1,'ritsuko::hdf5']]],
+  ['get_5fmissing_5fplaceholder_5fattribute_2ehpp_3',['get_missing_placeholder_attribute.hpp',['../get__missing__placeholder__attribute_8hpp.html',1,'']]]
 ];

diff --git a/docs/search/functions_2.js b/docs/search/functions_2.js
@@ -1,4 +1,5 @@
 var searchData=
 [
-  ['get_5f1d_5flength_0',['get_1d_length',['../namespaceritsuko_1_1hdf5.html#a72ac8356c88dcd7ea775c373468f07c9',1,'ritsuko::hdf5']]]
+  ['get_5f1d_5flength_0',['get_1d_length',['../namespaceritsuko_1_1hdf5.html#a72ac8356c88dcd7ea775c373468f07c9',1,'ritsuko::hdf5']]],
+  ['get_5fmissing_5fplaceholder_5fattribute_1',['get_missing_placeholder_attribute',['../namespaceritsuko_1_1hdf5.html#a0cb6491677dc79e02685e36835802476',1,'ritsuko::hdf5']]]
 ];

diff --git a/docs/search/files_1.js b/docs/search/files_1.js
@@ -1,4 +1,5 @@
 var searchData=
 [
-  ['get_5f1d_5flength_2ehpp_0',['get_1d_length.hpp',['../get__1d__length_8hpp.html',1,'']]]
+  ['get_5f1d_5flength_2ehpp_0',['get_1d_length.hpp',['../get__1d__length_8hpp.html',1,'']]],
+  ['get_5fmissing_5fplaceholder_5fattribute_2ehpp_1',['get_missing_placeholder_attribute.hpp',['../get__missing__placeholder__attribute_8hpp.html',1,'']]]
 ];
